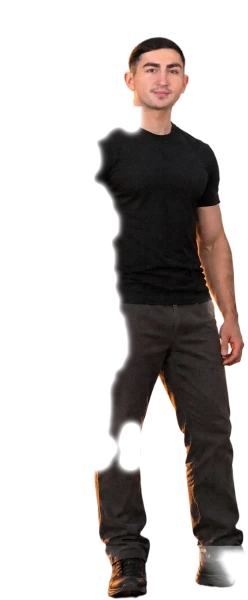
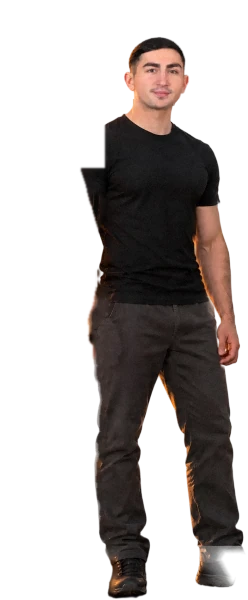
Website aktualisiert 28.09. 15:03

Changed region(s): [[0.3105, 0.15, 0.5927, 0.9], [0.7621, 0.33, 0.9879, 0.63], [0.4234, 0.9, 0.4798, 1.0]]

diff --git a/js/szene.js b/js/szene.js
@@ -524,10 +524,10 @@
      („Tschüss“). Beides startet gemeinsam, sobald es Nacht ist und man weiterscrollt, und läuft dann in eigener Zeit ab
      (so sieht man es sicher, bevor endo Studio kommt); beim Hochscrollen läuft es rückwärts. */
   /* 28.09. später (Emre: „flüssig und sauber“): winken_fluss.py – winken2-v1 0,75–4,45 s, BiRefNet, feste Figur + Armzone, echte Zwischenbilder (48/s), ohne Überblendung; Werte aus figuren/emre.json */
-  var FIGUREN = { hund: { b: 318, h: 360, anzahl: 36, spalten: 6, fuss: 0.9921, oben: 0.0896, mitte: 0.4201, breite: 0.7716 }, emre: { b: 248, h: 600, anzahl: 177, spalten: 12, fuss: 0.9965, oben: 0.0622, mitte: 0.6131, breite: 0.7397, einzeln: true, ausschnitt: [0, 0, 149, 479] } };   /* 28.09. später: winken_fluss.py – Grundbild + Armzone, 48 Bilder/s (Werte aus figuren/emre.json) */
+  var FIGUREN = { hund: { b: 318, h: 360, anzahl: 36, spalten: 6, fuss: 0.9921, oben: 0.0896, mitte: 0.4201, breite: 0.7716 }, emre: { b: 248, h: 600, anzahl: 177, spalten: 12, fuss: 0.9965, oben: 0.0622, mitte: 0.6131, breite: 0.7397, einzeln: true, ausschnitt: [2, 2, 135, 488] } };   /* 28.09. später: winken_fluss.py – Grundbild + Armzone, 48 Bilder/s (Werte aus figuren/emre.json) */
   /* Tempo (27.09. spät, Emre): Emre und Hund laufen NUR nach Zeit, jeder in seinem festen Tempo, unabhängig vom Scrollen.
      Emre winkt einmal (FIG_DAUER), der Hund hebt den Kopf in HUND_HOCH und senkt ihn in HUND_RUNTER. */
-  var FIG_DAUER = 3.7, HUND_HOCH = 2.5, HUND_RUNTER = 2.0, lichtGold = 0, lichtBlau = 0, lichtNacht = 0, FIG_VERSION = 13;   /* 28.09. später (Emre: „flüssig und sauber“): winken_fluss.py – 0,75–4,45 s aus winken2-v1, 48 Bilder/s mit echten Zwischenbildern, echte Geschwindigkeit (3,7 s) */
+  var FIG_DAUER = 3.7, HUND_HOCH = 2.5, HUND_RUNTER = 2.0, lichtGold = 0, lichtBlau = 0, lichtNacht = 0, FIG_VERSION = 14;   /* 28.09. später (Emre: „flüssig und sauber“): winken_fluss.py – 0,75–4,45 s aus winken2-v1, 48 Bilder/s mit echten Zwischenbildern, echte Geschwindigkeit (3,7 s) */
   /* Lage von Sonne und Mond (für Wolken, js/wolken.js) und wie stark das Gestirn gerade verdeckt ist (0–1, in Zehnteln) */
   var gest = { sy: 0, my: 0, sonneAn: 1, mondAn: 0 }, verdecktQ = 0, gestTest = null;
   var fig = { phase: 0, ziel: 0, laeuft: false }, hund = { phase: 0, ziel: 0, laeuft: false }, animT = 0, animLaeuft = false;
@@ -613,7 +613,7 @@
       if (f.grundBild) {
         var z = f.ausschnitt, sx = W / f.b, sy = H / f.h;
         ga.drawImage(f.grundBild, 0, 0, W, H);
-        ga.globalCompositeOperation = 'lighter';
+        ga.globalCompositeOperation = f.modus === 'arm' ? 'source-over' : 'lighter';   /* 'arm': feste Körperplatte, nur der Arm darüber */
         ga.drawImage(f.folge, (n0 % f.spalten) * z[2], Math.floor(n0 / f.spalten) * z[3], z[2], z[3], z[0] * sx, z[1] * sy, z[2] * sx, z[3] * sy);
       } else ga.drawImage(f.bild, 0, 0, W, H);
     }

diff --git a/index.html b/index.html
@@ -28,9 +28,9 @@
 <link rel="preload" href="schriften/Satoshi-Variable.woff2" as="font" type="font/woff2" crossorigin>
 <link rel="preload" href="schriften/InstrumentSerif-Regular.woff2" as="font" type="font/woff2" crossorigin>
 <!-- Bildfolgen von Emre und dem Hund früh, aber mit niedriger Priorität holen: das Winken (erstes Runterwischen) wartet sonst auf sie -->
-<link rel="preload" href="bilder/hero/figuren/emre-folge.webp?v=13" as="image" fetchpriority="low" media="(prefers-reduced-motion: no-preference)">
-<link rel="preload" href="bilder/hero/figuren/emre-grund.webp?v=13" as="image" fetchpriority="low" media="(prefers-reduced-motion: no-preference)">
-<link rel="preload" href="bilder/hero/figuren/hund-folge.webp?v=13" as="image" fetchpriority="low" media="(prefers-reduced-motion: no-preference)">
+<link rel="preload" href="bilder/hero/figuren/emre-folge.webp?v=14" as="image" fetchpriority="low" media="(prefers-reduced-motion: no-preference)">
+<link rel="preload" href="bilder/hero/figuren/emre-grund.webp?v=14" as="image" fetchpriority="low" media="(prefers-reduced-motion: no-preference)">
+<link rel="preload" href="bilder/hero/figuren/hund-folge.webp?v=14" as="image" fetchpriority="low" media="(prefers-reduced-motion: no-preference)">
 <script>document.documentElement.classList.add('js');</script>
 
 <style>
@@ -675,7 +675,7 @@ p, .wege span { text-wrap: pretty; hyphens: auto; -webkit-hyphens: auto; }
 </footer>
 <div class="wechsel" aria-hidden="true"></div>
 
-<script src="js/szene.js?v=49"></script>
+<script src="js/szene.js?v=50"></script>
 <script src="js/wolken.js?v=6" defer></script>
 <script>
 /* Navigation beim Runterscrollen ausblenden, Inhalte einmal sanft einblenden */

diff --git a/LIESMICH.md b/LIESMICH.md
@@ -2,6 +2,12 @@
 
 > Überblick für eine neue Sitzung: Vault-Notiz `08 Projekte/Neustart – hier weitermachen.md`. Hier stehen die technischen Details, neuester Abschnitt oben.
 
+## 28.09.2026 abends – Winken v14: nur der Arm bewegt sich (feste Körperplatte)
+- Emre zu v13: „links an mir ist etwas Weißes, und meine linke Hälfte dreht sich zu viel – es soll nur die Armbewegung sein“. Ursache: die Armzone reichte bis zum Kopf (linke Brust/Schulter aus dem Video, das sich mitdreht), und unter dem gehobenen Arm wurde die Körperseite mit dem Streiflicht aus dem Video sichtbar (nachts + Mond-Lichtsaum = weiß).
+- **Neu `bilder/hero/4k/szene2/winken_platte.py`** (nach `NUR_ZELLEN=1 python winken_fluss.py video/winken2-v1-4c32d096.mp4 0.75 4.45 birefnet-general`, Zwischenspeicher `%TEMP%/winken-zellen.npz`): Platte = Ruhebild; nur der Streifen, den der Ruhe-Arm an der Körperseite verdeckt, aus dem Bild mit höchstem Arm (Bild 24), Streiflicht von innen übermalt. Grenze Arm/Körper anatomisch: unter der Achsel die echte Körperkante (dort pro Bild Haut + Ärmelsaum, schmale Kantenstreifen < 5 px gefiltert), zwischen Kinn und Achsel ~10 % rechts der Achsel (Schulterkappe hebt sich mit), über dem Kinn bis an den Kopf (Hand). Ruhe-Ärmel außerhalb des Körpers gehört zur Arm-Ebene (keine „Lasche“). Zusammensetzen additiv: Platte · (1 − w) + Arm-Ebene (mit Platte ohne Arm als Ersatz, wo kein Arm ist) = genau 100 % Deckung, keine Linie am Übergang.
+- Dateien: `emre-grund.webp` 20 KB, `emre-folge.webp` 850 KB (Ausschnitt 135 × 488, 177 Bilder, 48/s), `emre.json` (`ausschnitt` [2, 2, 135, 488]); `FIG_VERSION` 14, `szene.js?v=50`, Vorladen `?v=14`.
+- Gemessen: 0 Einbrüche, 0 am Zellrand, weißer Rand max. 6 px je Bild, Kopf/Oberkörper ≤ 0,5 px, Echtzeit 3,8 s bei ~48 Bildern/s, 0 Konsolenfehler. GIFs: `08 Projekte/Winken-Vergleich-2026-09-28/nachher-v14-handy-*.gif`.
+
 ## 28.09.2026 später – Winken v13: flüssig (48/s), vollständig, Kopf/Oberkörper still (Rückweg: Tag `vor-ki-angebot`)
 - **Video:** alle 5 Winken-Videos gemessen (`bilder/hero/4k/szene2/winken_vergleich.py`) → `winken2-v1-4c32d096.mp4` (schärfster Arm, bester Übergang Anfang/Ende). Zeitfenster **0,75–4,45 s** (danach bewegt sich der Arm im Video noch einmal). Tabelle: `08 Projekte/Winken-Vergleich-2026-09-28/Winken-Vergleich.md`.
 - **Bau:** `winken_fluss.py <video> 0.75 4.45 birefnet-general` – BiRefNet-Freistellung (lokal, Cache `video/winken-masken-winken2-v1-4-89-birefnet.npz`, ~40 s/Bild beim ersten Lauf), Oberkörper ausgerichtet, Masken per optischem Fluss aus beiden Nachbarbildern repariert, Emres echter Kopf fest, Füße vom weißen Video-Hintergrund befreit, Ränder entmischt, Armzone aus Umriss- UND Farbänderung (nur Winkseite links vom Kopf, bis unter die Ruhe-Hand), echte Zwischenbilder (Fluss, vormultipliert) → **177 Bilder, 48/s**.
